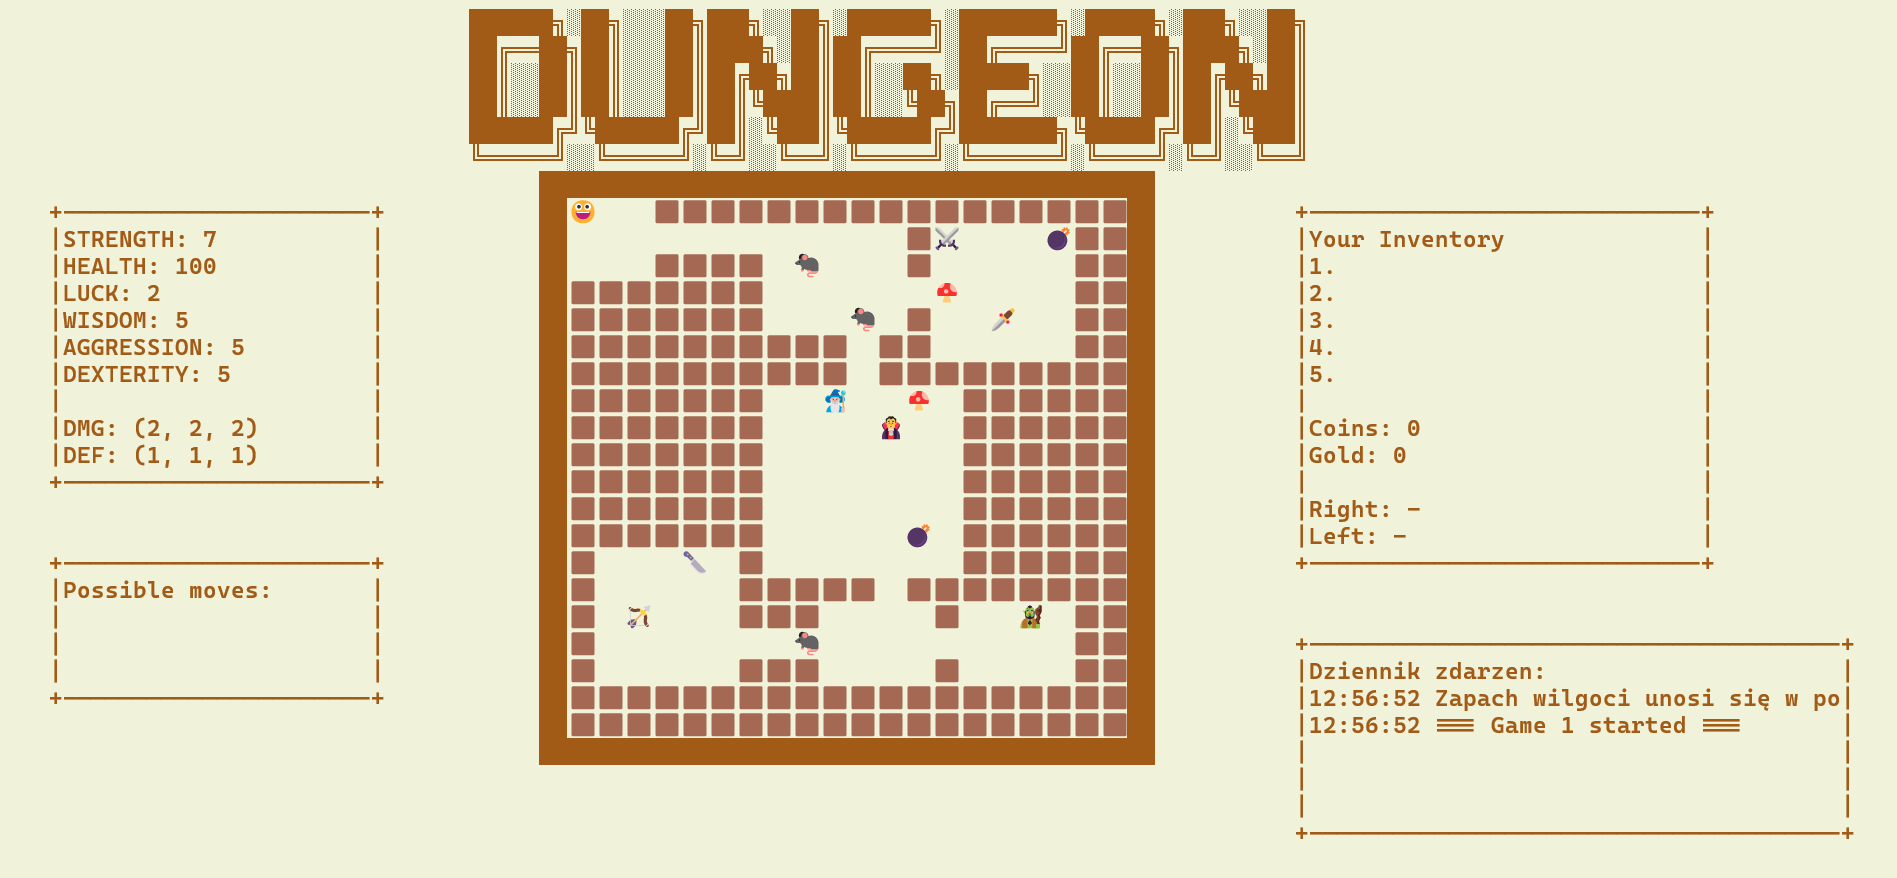
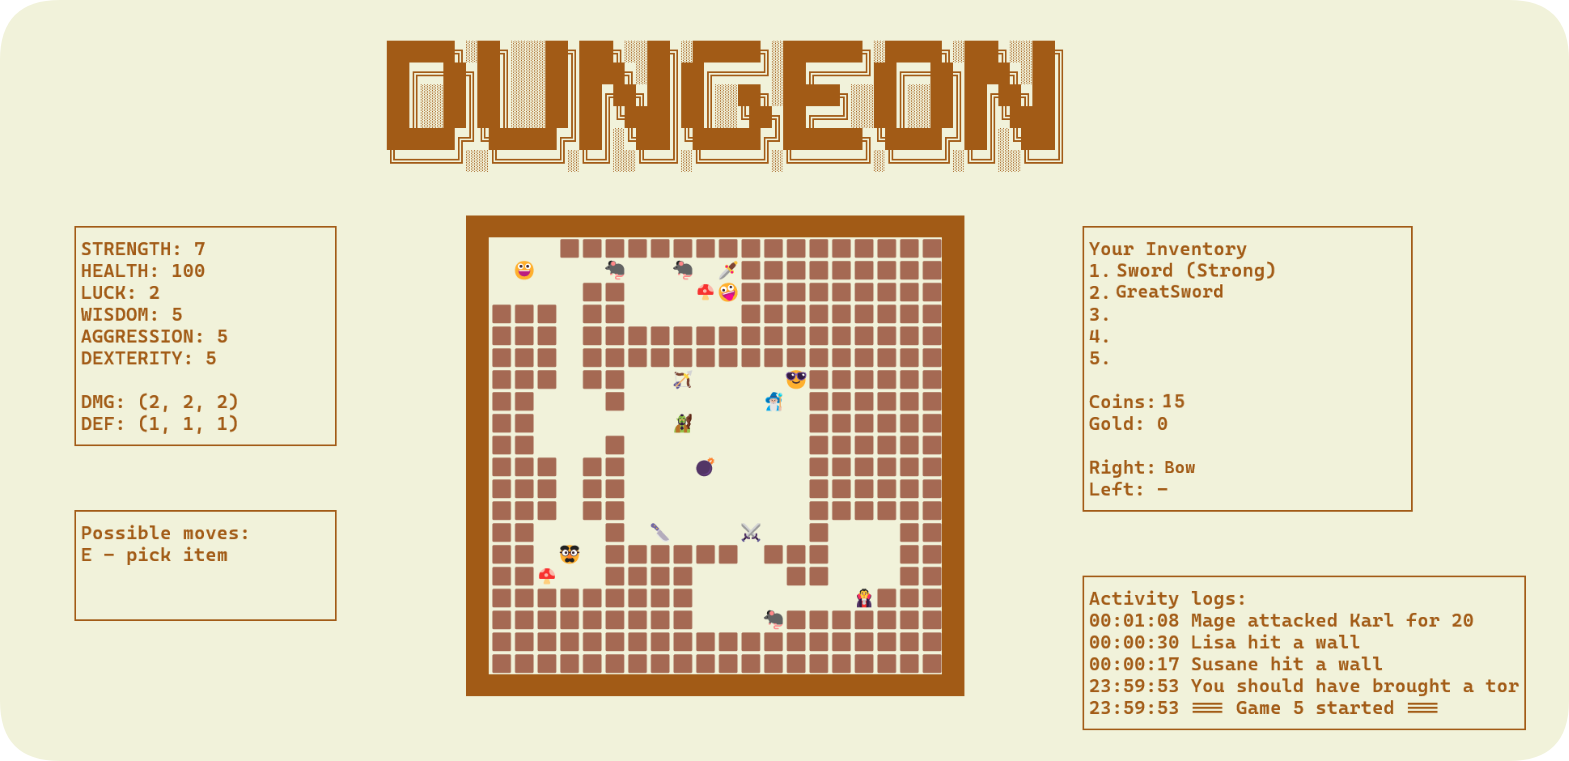
multithreading explained

diff --git a/README.md b/README.md
@@ -299,7 +299,7 @@ ICombatVisitor --> MagicWeapon : visits
 <details>
 <summary><strong>Observer 🖼</strong></summary>
 
-Is used in the game to react to the death of a monster belonging to a species. `MonsterSpecies` notifies all subscribed `Monster` objects when one of their members dies, and each monster reacts according to its assigned strategy — for example, `AggressiveSpeciesReaction` increases attack by 5, while `CowardSpeciesReaction` removes its defense. The key feature is that the subject does not need to know how observers react, so new reactions can be added without changing the notification mechanism.
+Is used in the game to react to the death of a monster belonging to a species. `MonsterSpecies` notifies all subscribed `Monster` objects when one of their members dies, and each monster reacts according to its assigned strategy - for example, `AggressiveSpeciesReaction` increases attack by 5, while `CowardSpeciesReaction` removes its defense. The key feature is that the subject does not need to know how observers react, so new reactions can be added without changing the notification mechanism.
 
 ```mermaid
 classDiagram
@@ -509,9 +509,78 @@ The separation makes the project easier to **maintain, extend and test**. Each p
 ---
 
 
+## Multithreading & Synchronization
+
+The project uses **multithreading to separate network communication, player input and game simulation**, allowing multiple clients to operate simultaneously without blocking each other.
+
+### Server - `N + 3` tasks
+
+* **1× Accept loop** - accepts new client connections.
+* **1× Command loop** - processes commands from the shared `ConcurrentQueue`.
+* **1× World tick loop** - periodically updates the game world and monster movement.
+* **N× Client handlers** - one `HandleClient` task for each connected player, responsible for receiving their messages.  
+
+```text
+Accept
+   │
+   ├── HandleClient #1 ─┐
+   ├── HandleClient #2 ─┤
+   ├── HandleClient #N ─┤
+   │                    ▼
+   │              ConcurrentQueue
+   │                    │
+   ├────────── Command Processing
+   │                    │
+   └──────────── World Tick
+                        │
+                     GameModel
+```
+
+### Client - 3 tasks
+
+* **Main task** - controls the main client loop.
+* **ReceiveSnapshots** - continuously receives game snapshots from the server.
+* **SendCommands** - reads keyboard input and sends commands to the server. 
+
+### Synchronization
+
+* **`ConcurrentQueue`** - safely transfers commands from multiple client handlers to the command processor.
+* **`modelLock`** - prevents simultaneous modification of the game model. 
+* **`clientsLock`** - protects the shared collection of client connections. 
+
+The important design principle is that **network tasks receive data, while game-state changes are performed in controlled server loops**, preventing race conditions and inconsistent game state.
+
+---
 
 
+## Server – Operation and Responsibilities
 
+The server is responsible for managing the multiplayer session and maintaining the authoritative game state. It handles player connections, names and states, controls the game flow and synchronizes clients.
+
+Its main responsibilities include:
+
+* **Player Management** - Connecting players, assigning names and monitoring their current state.
+* **Game Control** - Managing the lobby, introduction, game start, game over and returning players to the lobby.
+* **Theme generation** - Selecting and generating different game themes and managing their game elements.
+* **Player Monitoring** - Tracking living and dead players and detecting when a round has ended.
+* **Ranking** - Recording and displaying player results.
+* **Client Synchronization** - Sending regular `GameSnapshot` updates to all connected clients.
+* **Server Console** - Providing controls and a live overview of the current session and players.
+
+All game logic is executed on the server, making it the **authoritative source of the game state**.
+
+![Server](images/server.png)
+
+
+---
+
+
+## TCP & JSON Communication
+
+The client and server communicate using TCP sockets with JSON-serialized messages. Clients send player commands to the server, while the server processes them and periodically sends updated GameSnapshot data back to the clients. This provides structured and synchronized communication between all players.
+
+
+---
 
 ## Code Structure
 
@@ -574,18 +643,7 @@ An animated terminal introduction displayed before the game starts.
 
 
 
-
-<br><br><br><br>
-
-
-
----
-
----
-
----
-
-# SYFY
+<br><br>
 
 
 
